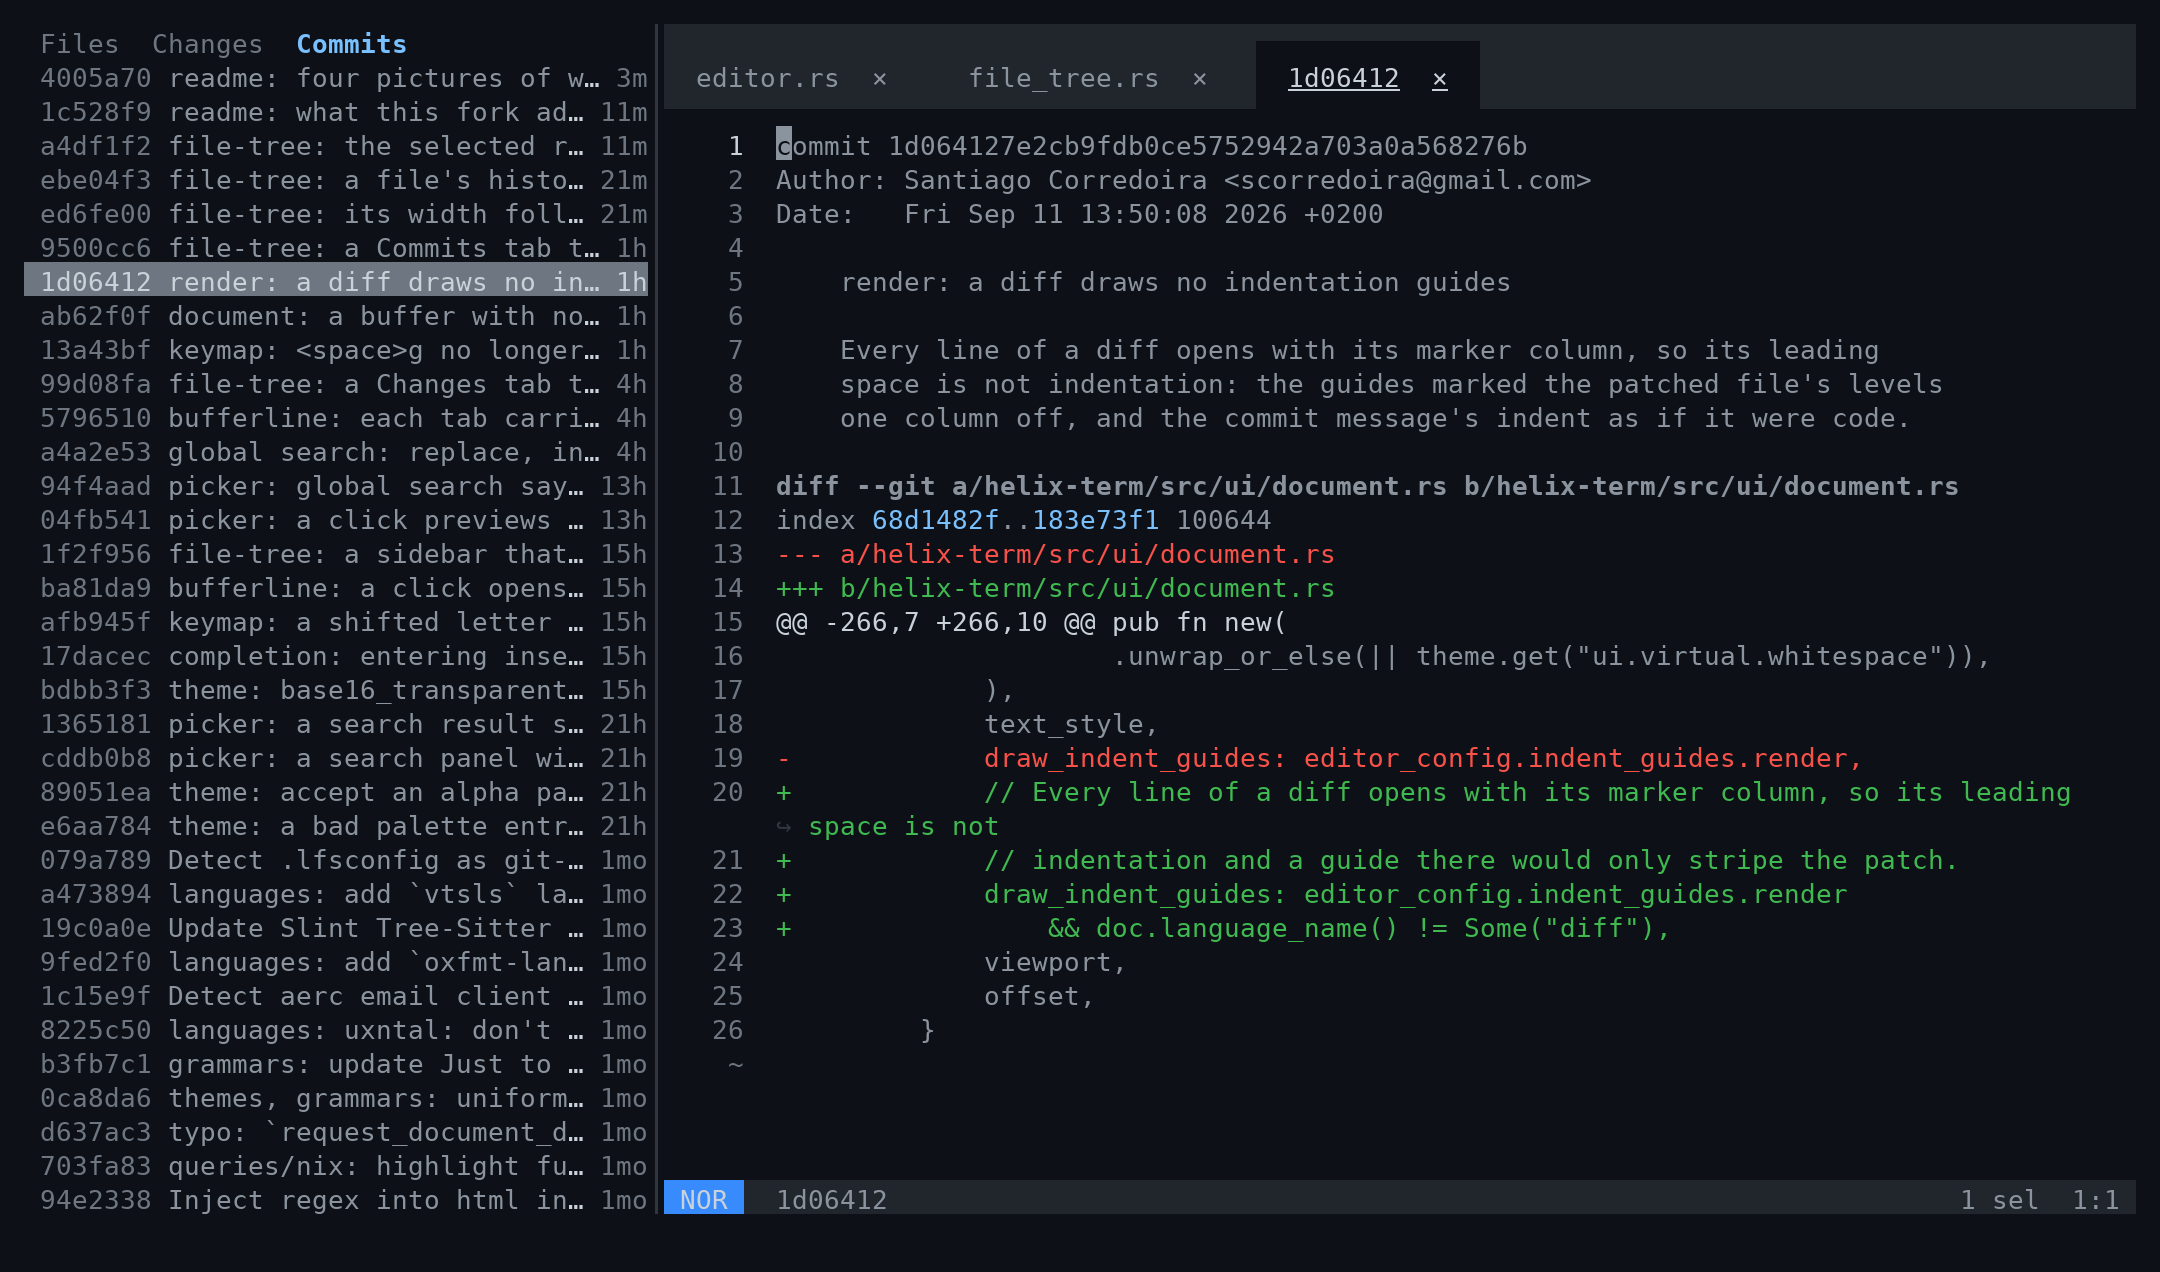
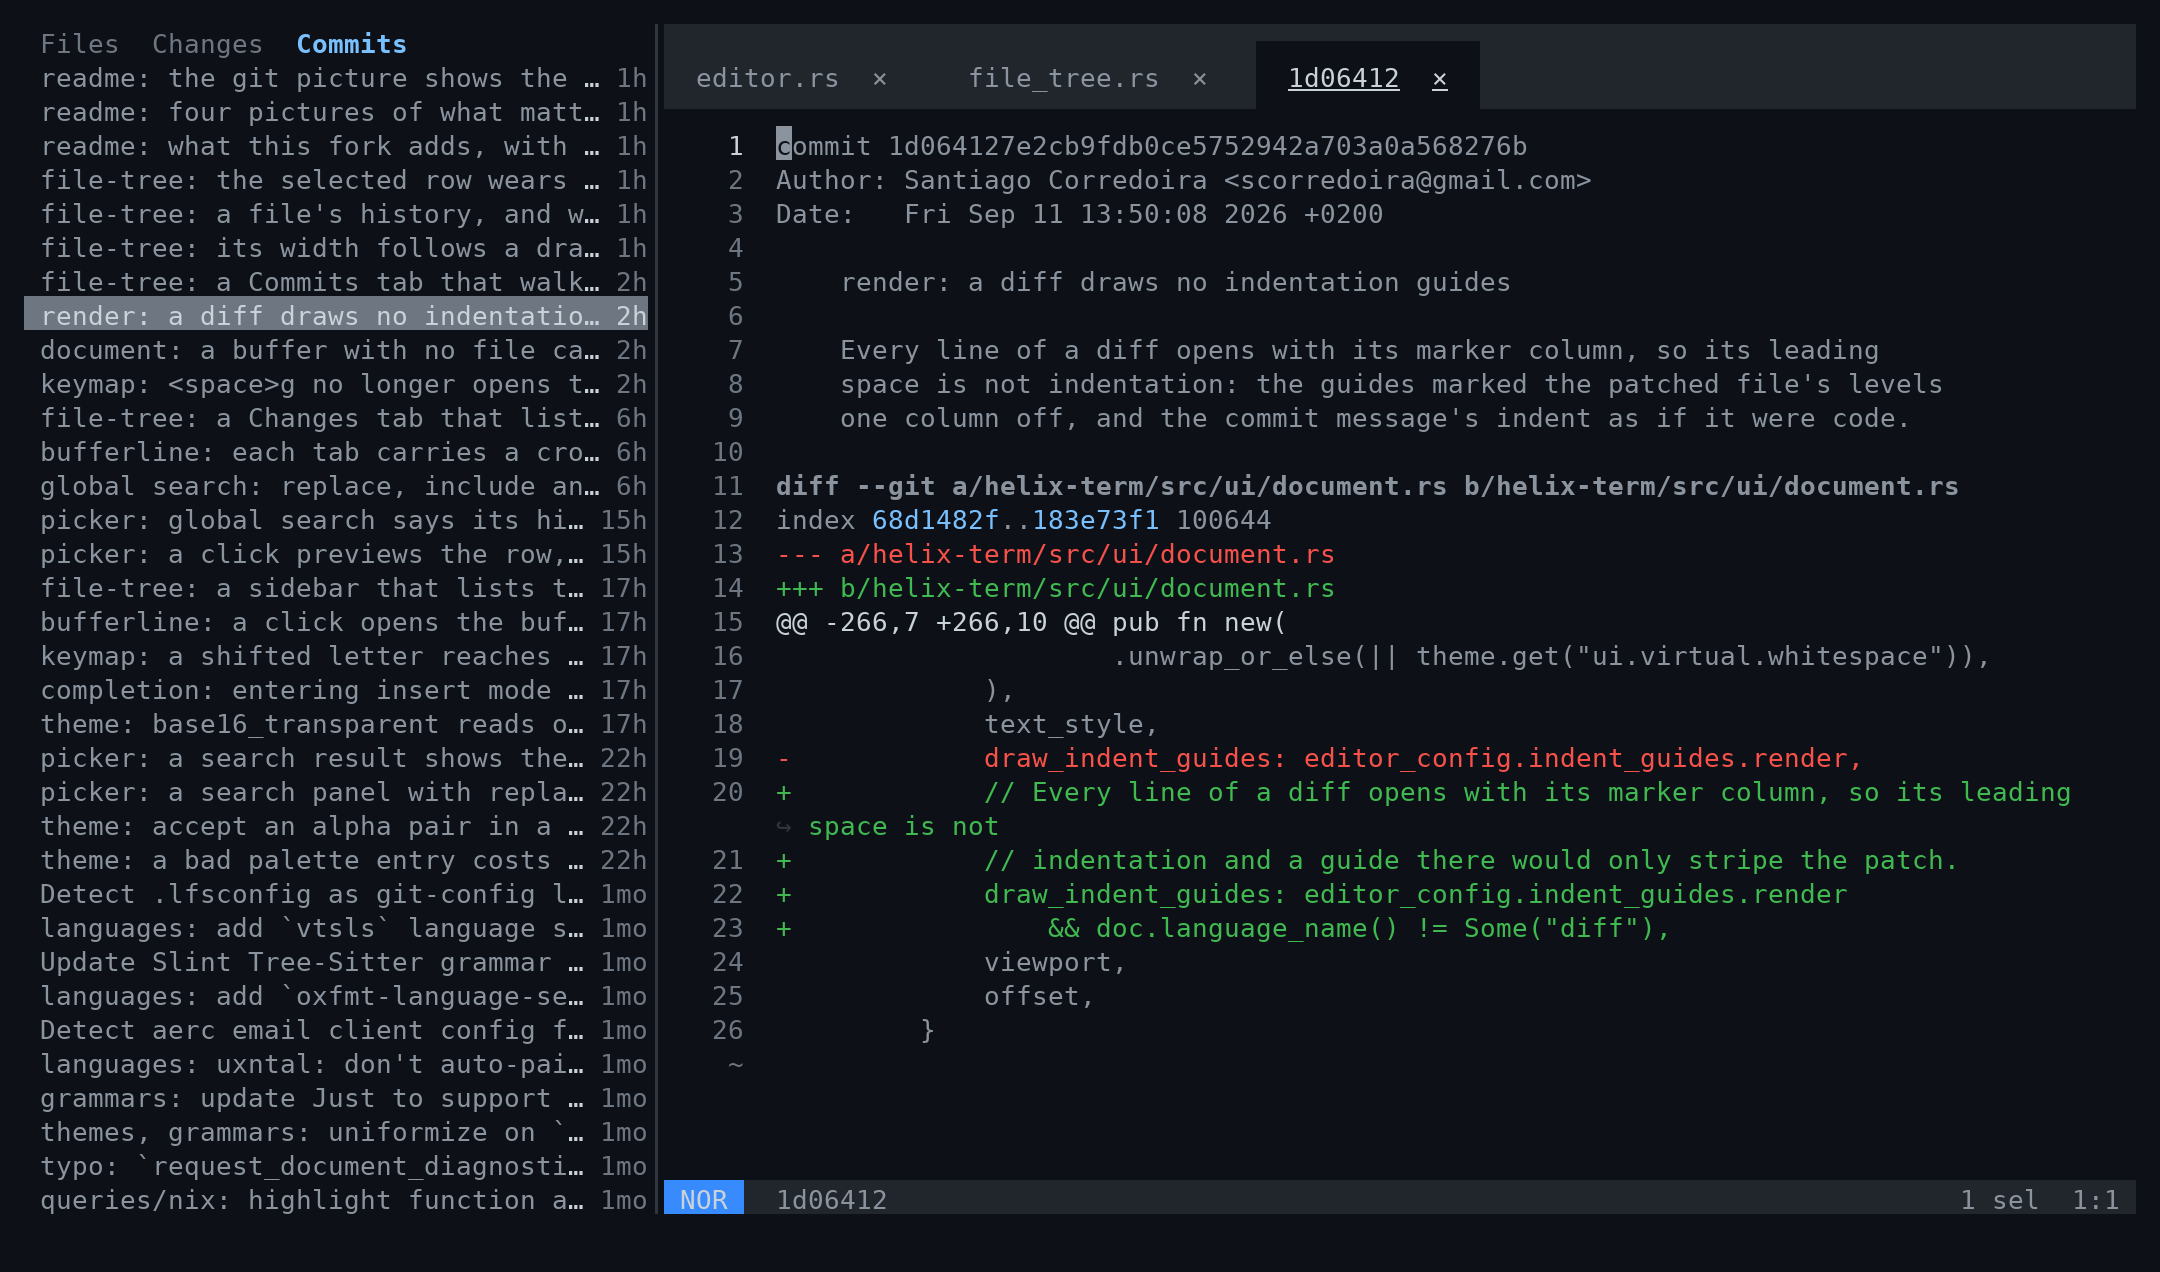
file-tree: choosing a commit shows its diff, opening it lists files
In the Commits tab a click on a commit, or moving onto it, now only
chooses it: the editor shows the whole commit's diff, and the keys
stay with the tree to go on down the list. Enter or a double click
opens it into its files, as Enter did before. Arriving at the tab
leaves the editor's view alone until the first move or click, and in
a file's history the diff shown is that file's, a rename read as one.

The history reads by subject: its rows drop the hash, which the
opened commit's own row still carries.

Changed region(s): [[0.0, 0.0307, 0.3102, 0.9505]]

diff --git a/helix-term/src/ui/file_tree.rs b/helix-term/src/ui/file_tree.rs
@@ -55,6 +55,11 @@ pub struct FileTree {
     opened: Option<OpenCommit>,
     /// The line blamed last, so blaming it again opens its commit.
     blamed: Option<Blamed>,
+    /// Whether the history list's diff follows its cursor: from the first move or click in
+    /// it, so arriving at the tab does not take the editor's view away.
+    list_preview: bool,
+    /// The row last clicked and when, so a second click on it soon after is a double click.
+    last_click: Option<(usize, Instant)>,
     /// The scratch buffer the diffs are shown in, reused for as long as it lives.
     diff_doc: Option<DocumentId>,
     /// What the diff buffer was last asked to show, so it is asked again only when that moves.
@@ -98,6 +103,10 @@ const CHANGES_REFRESH: Duration = Duration::from_secs(2);
 /// How many commits one `git log` reads; the cursor nearing the end reads the next page.
 const COMMITS_PAGE: usize = 200;
 
+/// Two clicks on the same row closer than this are a double click: the terminal reports
+/// each press on its own, so the tree tells them apart itself.
+const DOUBLE_CLICK: Duration = Duration::from_millis(500);
+
 /// The narrowest the separator can be dragged to.
 const MIN_WIDTH: u16 = 12;
 
@@ -137,6 +146,8 @@ struct Commit {
     /// The file the commit was reached by (a file's history, a blame), relative to the
     /// repository's top and named as it was in that commit.
     file: Option<String>,
+    /// Where that file came from when the commit renamed it, so its diff reads as a rename.
+    file_from: Option<String>,
 }
 
 /// A line to blame: the buffer's file, its line from 0, and the buffer's text, which is what
@@ -230,6 +241,8 @@ impl FileTree {
             history_of: None,
             opened: None,
             blamed: None,
+            list_preview: false,
+            last_click: None,
             diff_doc: None,
             previewed: None,
             preview_pending: None,
@@ -467,6 +480,7 @@ impl FileTree {
             return;
         }
         self.tab = tab;
+        self.list_preview = false;
         self.rebuild(editor);
         self.revealed = None;
     }
@@ -557,6 +571,7 @@ impl FileTree {
     /// none. What was read of the other is dropped, along with any read still under way.
     fn set_history(&mut self, history: Option<PathBuf>) {
         self.history_of = history;
+        self.list_preview = false;
         self.commits = None;
         self.commits_complete = false;
         self.commits_pending = None;
@@ -627,6 +642,8 @@ impl FileTree {
         };
         self.cursor = index.unwrap_or(opened.list_cursor);
         self.scroll = opened.list_scroll;
+        // Back on the list, the diff goes on following the cursor, now over whole commits.
+        self.list_preview = true;
         self.rebuild(editor);
     }
 
@@ -834,8 +851,34 @@ impl FileTree {
         if self.tab != Tab::Commits {
             return None;
         }
-        let opened = self.opened.as_ref()?;
         let row = self.rows.get(self.cursor)?;
+        if let RowKind::Commit(index) = row.kind {
+            if !self.list_preview {
+                return None;
+            }
+            let Some(Ok(commits)) = &self.commits else {
+                return None;
+            };
+            let commit = commits.get(index)?;
+            // In a file's history the diff is that file's; in the whole one, the commit's.
+            let (pathspecs, name) = match &commit.file {
+                Some(file) => {
+                    let mut pathspecs = vec![format!(":(top,literal){file}")];
+                    if let Some(from) = &commit.file_from {
+                        pathspecs.push(format!(":(top,literal){from}"));
+                    }
+                    let base = file.rsplit('/').next().unwrap_or(file);
+                    (pathspecs, format!("{} {base}", commit.short))
+                }
+                None => (vec![".".to_string()], commit.short.clone()),
+            };
+            return Some(DiffTarget {
+                hash: commit.hash.clone(),
+                pathspecs,
+                name,
+            });
+        }
+        let opened = self.opened.as_ref()?;
         let top = |path: &Path| {
             let inside = path.strip_prefix(&self.root).unwrap_or(path);
             format!(
@@ -1093,6 +1136,7 @@ impl FileTree {
     pub fn handle_key(&mut self, key: KeyEvent, cx: &mut commands::Context) -> EventResult {
         let editor = &mut cx.editor;
         let half_page = (self.page / 2).max(1) as isize;
+        let before = self.cursor;
         match (key.code, key.modifiers) {
             (KeyCode::Esc, _) => {
                 if self.tab == Tab::Commits && self.opened.is_some() {
@@ -1176,6 +1220,10 @@ impl FileTree {
                 self.prompt_delete(cx);
             }
             _ => {}
+        }
+        // Moving through the history is choosing a commit to look at, as a click is.
+        if self.tab == Tab::Commits && self.opened.is_none() && self.cursor != before {
+            self.list_preview = true;
         }
         EventResult::Consumed(None)
     }
@@ -1388,11 +1436,20 @@ impl FileTree {
                     return EventResult::Consumed(None);
                 }
                 self.cursor = index;
-                // Inside a commit a click on a file only moves the diff there, leaving the keys
-                // with the tree to go on reading down the list.
-                let selects_only =
-                    self.tab == Tab::Commits && self.opened.is_some() && !self.rows[index].is_dir();
-                if !selects_only && self.open_row(editor) {
+                let now = Instant::now();
+                let double = self
+                    .last_click
+                    .is_some_and(|(row, at)| row == index && now.duration_since(at) < DOUBLE_CLICK);
+                self.last_click = if double { None } else { Some((index, now)) };
+                // In the Commits tab a click chooses what the diff shows and leaves the keys
+                // with the tree to go on reading down the list; a double click is Enter.
+                let kind = self.rows[index].kind;
+                let chooses = self.tab == Tab::Commits && kind != RowKind::Dir && !double;
+                if chooses {
+                    if matches!(kind, RowKind::Commit(_)) {
+                        self.list_preview = true;
+                    }
+                } else if self.open_row(editor) {
                     self.focused = false;
                 }
                 self.clamp();
@@ -1557,6 +1614,7 @@ impl FileTree {
                     x: area.x + 1,
                     y,
                     width: content_width.saturating_sub(1),
+                    show_hash: row.kind == RowKind::CommitHead,
                     hash_style,
                     subject_style,
                 };
@@ -1710,9 +1768,11 @@ fn query_commits(root: &Path, skip: usize, history: Option<&Path>) -> CommitsAns
         }
         // The followed file's status: its path next, or where it came from and then its path.
         if !record.contains(&0x1f) {
-            if matches!(record[0], b'R' | b'C') {
-                records.next();
-            }
+            let from = if matches!(record[0], b'R' | b'C') {
+                records.next()
+            } else {
+                None
+            };
             let (Some(commit), Some(path)) = (commits.last_mut(), records.next()) else {
                 return Err(format!(
                     "git log: unreadable entry {:?}",
@@ -1720,6 +1780,7 @@ fn query_commits(root: &Path, skip: usize, history: Option<&Path>) -> CommitsAns
                 ));
             };
             commit.file = Some(String::from_utf8_lossy(path).into_owned());
+            commit.file_from = from.map(|from| String::from_utf8_lossy(from).into_owned());
             continue;
         }
         let record = String::from_utf8_lossy(record);
@@ -1738,6 +1799,7 @@ fn query_commits(root: &Path, skip: usize, history: Option<&Path>) -> CommitsAns
             time,
             subject: subject.to_string(),
             file: None,
+            file_from: None,
         });
     }
     Ok(commits)
@@ -1814,6 +1876,7 @@ fn query_blame(root: &Path, request: &BlameRequest) -> Result<Blamed, String> {
             time,
             subject: subject.to_string(),
             file: Some(file.to_string()),
+            file_from: None,
         })
     };
     Ok(Blamed {
@@ -1907,19 +1970,26 @@ struct CommitLine {
     x: u16,
     y: u16,
     width: usize,
+    /// Only the opened commit's own row names its hash; the history reads by subject.
+    show_hash: bool,
     hash_style: Style,
     subject_style: Style,
 }
 
-/// Draws a commit on one line: its short hash, its subject, and its age at the right edge.
+/// Draws a commit on one line: its short hash when asked, its subject, and its age at the
+/// right edge.
 fn draw_commit(surface: &mut Surface, line: &CommitLine, commit: &Commit) {
     let age = format_age(commit.time);
-    let (after_hash, _) =
-        surface.set_stringn(line.x, line.y, &commit.short, line.width, line.hash_style);
-    let used = (after_hash - line.x) as usize + 1;
+    let mut subject_x = line.x;
+    if line.show_hash {
+        let (after_hash, _) =
+            surface.set_stringn(line.x, line.y, &commit.short, line.width, line.hash_style);
+        subject_x = after_hash + 1;
+    }
+    let used = (subject_x - line.x) as usize;
     let subject_width = line.width.saturating_sub(used + age.len() + 1);
     surface.set_string_truncated(
-        after_hash + 1,
+        subject_x,
         line.y,
         &commit.subject,
         subject_width,

diff --git a/book/src/editor.md b/book/src/editor.md
@@ -254,7 +254,7 @@ Note that the ignore files consulted by the file explorer when `ignore` is set t
 
 ### `[editor.file-tree]` Section
 
-The file tree is the sidebar on the left listing the workspace, the one `<space>T` focuses. It follows the focused buffer, expanding its directory and marking the file. Inside it, `j`/`k` move, `l`/`Enter` expand a directory or open a file, `h` collapses or jumps to the parent, `H` collapses everything, `R` reloads, `Esc` returns to the editor and `q` hides the tree (`<space>t` toggles it from the editor). `a` creates a file, or a directory when the name ends in `/`, next to the cursor; `r` renames the entry under the cursor, moving its open buffers along; `d` deletes it after confirmation. A click opens or expands the row under the mouse, and dragging the line that separates the tree from the editor resizes it; the width it is dragged to is remembered between sessions, over `width`. `Tab`, or a click on a tab's name, switches between three tabs: Files, the whole workspace; Changes, only what `git status` names — each file changed, added, deleted or renamed since the last commit, staged or not, with its letter (`M`, `A`, `D`, `R`) and a directory holding one directory folded into one row; and Commits, the history, newest first, each commit with its short hash, its subject and its age, the older ones read as the cursor nears the end. `Enter` on a commit lists the files it touched the way Changes does, under a row standing for the whole commit, and the focused view shows its diff in a scratch buffer, following the cursor: the whole commit on its row, a directory's files on a directory, one file on a file. `Enter` on a file goes over to read that diff, and `Esc` goes back from the files to the history. `<space>H` turns Commits into the history of the current file, followed across renames, and `Enter` on one of its commits opens it with the cursor on that file; `Esc` goes back to the whole history. `<space>B` says in the status line who last changed the cursor's line, in which commit and when, counting the buffer's unsaved text; asked again on the same line, it opens that commit in the tree the same way. Changes and Commits ask git again every two seconds while they are on screen (a file's history only on `R`), and `R` asks at once; creating, renaming and deleting do nothing in Commits, which is the history and not the disk. What the Files tab lists follows the `[editor.file-explorer]` options and nothing else: the helix ignore files narrow what a search or a picker walks, never what the tree shows.
+The file tree is the sidebar on the left listing the workspace, the one `<space>T` focuses. It follows the focused buffer, expanding its directory and marking the file. Inside it, `j`/`k` move, `l`/`Enter` expand a directory or open a file, `h` collapses or jumps to the parent, `H` collapses everything, `R` reloads, `Esc` returns to the editor and `q` hides the tree (`<space>t` toggles it from the editor). `a` creates a file, or a directory when the name ends in `/`, next to the cursor; `r` renames the entry under the cursor, moving its open buffers along; `d` deletes it after confirmation. A click opens or expands the row under the mouse, and dragging the line that separates the tree from the editor resizes it; the width it is dragged to is remembered between sessions, over `width`. `Tab`, or a click on a tab's name, switches between three tabs: Files, the whole workspace; Changes, only what `git status` names — each file changed, added, deleted or renamed since the last commit, staged or not, with its letter (`M`, `A`, `D`, `R`) and a directory holding one directory folded into one row; and Commits, the history, newest first, each commit with its subject and its age, the older ones read as the cursor nears the end. Moving onto a commit, or a click on it, shows its whole diff in the focused view, in a scratch buffer; arriving at the tab leaves the view alone. `Enter` or a double click on a commit lists the files it touched the way Changes does, under a row standing for the whole commit, and the diff follows the cursor: the whole commit on its row, a directory's files on a directory, one file on a file. `Enter` on a file goes over to read that diff, and `Esc` goes back from the files to the history. `<space>H` turns Commits into the history of the current file, followed across renames, and `Enter` on one of its commits opens it with the cursor on that file; `Esc` goes back to the whole history. `<space>B` says in the status line who last changed the cursor's line, in which commit and when, counting the buffer's unsaved text; asked again on the same line, it opens that commit in the tree the same way. Changes and Commits ask git again every two seconds while they are on screen (a file's history only on `R`), and `R` asks at once; creating, renaming and deleting do nothing in Commits, which is the history and not the disk. What the Files tab lists follows the `[editor.file-explorer]` options and nothing else: the helix ignore files narrow what a search or a picker walks, never what the tree shows.
 
 | Key | Description | Default |
 |--|--|---------|

diff --git a/README.md b/README.md
@@ -46,9 +46,9 @@ on screen: the files are changed but left unsaved, and one undo takes it back.
 
 The **Changes** tab (`Tab` inside the tree) lists what `git status` names, each
 file with its letter: modified, added, deleted, renamed. The **Commits** tab
-lists the history; `Enter` on a commit lists the files it touched, and the
-editor shows the diff of whatever the cursor is on: the whole commit, a
-directory, one file. `Esc` goes back. `Space H` narrows it to the current
+lists the history: a click on a commit shows its whole diff in the editor, and
+`Enter` or a double click lists the files it touched, the diff then following
+whatever the cursor is on: a directory, one file. `Esc` goes back. `Space H` narrows it to the current
 file's history, following renames.
 
 ![The history in the sidebar, the diff of the selected commit on the right](fork/screenshots/commits.png)
